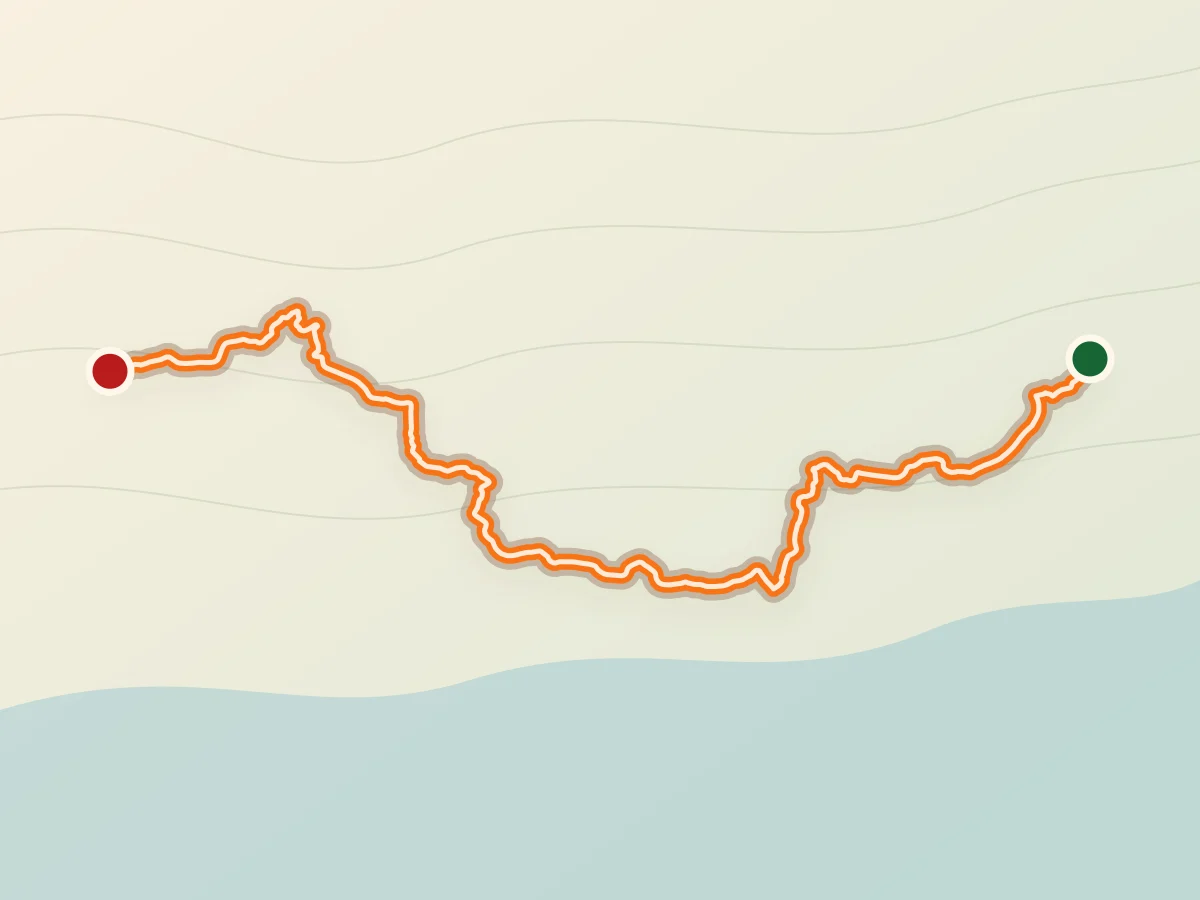
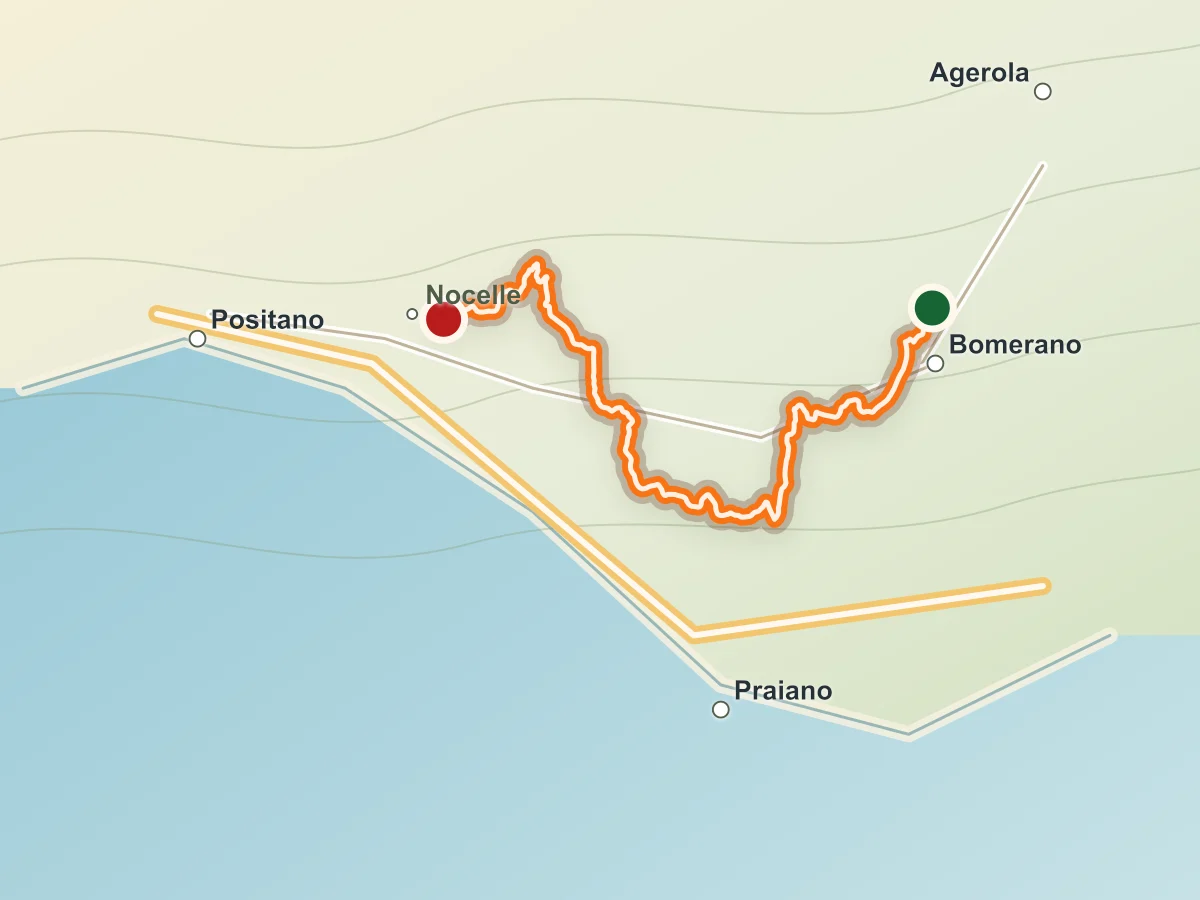
Use real Mapbox route views

Changed region(s): [[0.0, 0.1867, 0.9558, 0.9956], [0.7708, 0.0622, 0.8633, 0.0933], [0.8633, 0.0933, 0.8942, 0.1244]]

diff --git a/public/sw.js b/public/sw.js
@@ -1,1 +1,1 @@
-if(!self.define){let e,a={};const i=(i,s)=>(i=new URL(i+".js",s).href,a[i]||new Promise(a=>{if("document"in self){const e=document.createElement("script");e.src=i,e.onload=a,document.head.appendChild(e)}else e=i,importScripts(i),a()}).then(()=>{let e=a[i];if(!e)throw new Error(`Module ${i} didn’t register its module`);return e}));self.define=(s,r)=>{const c=e||("document"in self?document.currentScript.src:"")||location.href;if(a[c])return;let n={};const d=e=>i(e,c),o={module:{uri:c},exports:n,require:d};a[c]=Promise.all(s.map(e=>o[e]||d(e))).then(e=>(r(...e),n))}}define(["./workbox-f1770938"],function(e){"use strict";importScripts(),self.skipWaiting(),e.clientsClaim(),e.precacheAndRoute([{url:"/_next/static/TdBkE539eTVDdEV3mW2tG/_buildManifest.js",revision:"f5ebc502a50dfa529053d0b6a49a5990"},{url:"/_next/static/TdBkE539eTVDdEV3mW2tG/_ssgManifest.js",revision:"b6652df95db52feb4daf4eca35380933"},{url:"/_next/static/chunks/241-a31dfc1da5424e1f.js",revision:"a31dfc1da5424e1f"},{url:"/_next/static/chunks/306.889c13e0d8b696cc.js",revision:"889c13e0d8b696cc"},{url:"/_next/static/chunks/473-0d2e9323c181d006.js",revision:"0d2e9323c181d006"},{url:"/_next/static/chunks/4bd1b696-67e30520d621c4dd.js",revision:"67e30520d621c4dd"},{url:"/_next/static/chunks/69b09407-21a11b66077f3b5c.js",revision:"21a11b66077f3b5c"},{url:"/_next/static/chunks/703-712178da8e4b8590.js",revision:"712178da8e4b8590"},{url:"/_next/static/chunks/870fdd6f-a6f621f8a46d0cf4.js",revision:"a6f621f8a46d0cf4"},{url:"/_next/static/chunks/928-a8b58837fbf63054.js",revision:"a8b58837fbf63054"},{url:"/_next/static/chunks/app/%5Blocale%5D/layout-a01a015f54c6705e.js",revision:"a01a015f54c6705e"},{url:"/_next/static/chunks/app/%5Blocale%5D/page-2d5798ac906de985.js",revision:"2d5798ac906de985"},{url:"/_next/static/chunks/app/%5Blocale%5D/place/%5Bslug%5D/opengraph-image/route-d3079abb53d535a3.js",revision:"d3079abb53d535a3"},{url:"/_next/static/chunks/app/%5Blocale%5D/place/%5Bslug%5D/page-2fb4bbaeef6815bf.js",revision:"2fb4bbaeef6815bf"},{url:"/_next/static/chunks/app/_global-error/page-d3079abb53d535a3.js",revision:"d3079abb53d535a3"},{url:"/_next/static/chunks/app/_not-found/page-9f5868a1f0915821.js",revision:"9f5868a1f0915821"},{url:"/_next/static/chunks/app/api/subscribe/route-d3079abb53d535a3.js",revision:"d3079abb53d535a3"},{url:"/_next/static/chunks/app/sitemap.xml/route-d3079abb53d535a3.js",revision:"d3079abb53d535a3"},{url:"/_next/static/chunks/c36f3faa.253c1b83377f53a8.js",revision:"253c1b83377f53a8"},{url:"/_next/static/chunks/framework-d7de93249215fb06.js",revision:"d7de93249215fb06"},{url:"/_next/static/chunks/main-6a5a42b1ffd850d3.js",revision:"6a5a42b1ffd850d3"},{url:"/_next/static/chunks/main-app-ea18b1420a4ef144.js",revision:"ea18b1420a4ef144"},{url:"/_next/static/chunks/next/dist/client/components/builtin/app-error-d3079abb53d535a3.js",revision:"d3079abb53d535a3"},{url:"/_next/static/chunks/next/dist/client/components/builtin/forbidden-d3079abb53d535a3.js",revision:"d3079abb53d535a3"},{url:"/_next/static/chunks/next/dist/client/components/builtin/global-error-bd7591621645e423.js",revision:"bd7591621645e423"},{url:"/_next/static/chunks/next/dist/client/components/builtin/layout-d3079abb53d535a3.js",revision:"d3079abb53d535a3"},{url:"/_next/static/chunks/next/dist/client/components/builtin/not-found-d3079abb53d535a3.js",revision:"d3079abb53d535a3"},{url:"/_next/static/chunks/next/dist/client/components/builtin/unauthorized-d3079abb53d535a3.js",revision:"d3079abb53d535a3"},{url:"/_next/static/chunks/polyfills-42372ed130431b0a.js",revision:"846118c33b2c0e922d7b3a7676f81f6f"},{url:"/_next/static/chunks/webpack-da62b1c0435e0e5a.js",revision:"da62b1c0435e0e5a"},{url:"/_next/static/css/53d61c027a9321d3.css",revision:"53d61c027a9321d3"},{url:"/_next/static/css/550b1d6ff5c1b7ec.css",revision:"550b1d6ff5c1b7ec"},{url:"/_next/static/media/027647acf05c7ff8-s.woff2",revision:"3591b7c787c0714852651cebcf68a08f"},{url:"/_next/static/media/069cf31a230d4226-s.p.woff2",revision:"95ae36f714e16b20dc7c5329bb9d74b9"},{url:"/_next/static/media/1f3fe8c6df3d47c1-s.p.woff2",revision:"c355ec2df77a650bba34b592b711cb81"},{url:"/_next/static/media/3e8ab5100a4aa694-s.p.woff2",revision:"639aed42fb4050938f7dca6956047319"},{url:"/_next/static/media/82050c55ac1c8c11-s.p.woff2",revision:"6df1b1045b75cc21cd87feece0d811a6"},{url:"/_next/static/media/9e0a5abcfb090244-s.woff2",revision:"eebcfbf928aa84c742c17810135ca969"},{url:"/_next/static/media/b0e569aadaad2e28-s.woff2",revision:"eedad13c188a4b733d4de94c3410b956"},{url:"/_next/static/media/b78b37b810acce9f-s.woff2",revision:"84178643d3301be33c644418edb5428e"},{url:"/_next/static/media/d49d832fa01eb618-s.woff2",revision:"223003a4d26dc1a3eda1ba4240a6264a"},{url:"/_next/static/media/fe4c52824bfaed3e-s.woff2",revision:"805d9d0a89317c31018ba4093b57970a"},{url:"/apple-touch-icon.png",revision:"ad816da2ae937fc8b03b505590b43a43"},{url:"/brand/booking.svg",revision:"c0a5cb26a18d2e267aab13466b045ed4"},{url:"/brand/logo-color-black.svg",revision:"d2b65e2406ee8a6ed4713853682ccd33"},{url:"/brand/logo-color-white.svg",revision:"079ceb0ad76dc9e8debc272d28a89854"},{url:"/favicon-16x16.png",revision:"e5e4b81d6a451a74515d0bb9f208882e"},{url:"/favicon-32x32.png",revision:"df06b52d3d8f8e5142cc80f496fd10b9"},{url:"/favicon-48x48.png",revision:"9d90043aa676ecc2289eee7b982d9622"},{url:"/favicon.ico",revision:"6f418a6c808e328aeb9db844463bea70"},{url:"/file.svg",revision:"d09f95206c3fa0bb9bd9fefabfd0ea71"},{url:"/globe.svg",revision:"2aaafa6a49b6563925fe440891e32717"},{url:"/gregs-avatar-new.png",revision:"63fc6939883bcaaf17105fc0f3c2044a"},{url:"/guide-webp/A-Paranza.webp",revision:"2ff93ff97363b47278b864d99079b870"},{url:"/guide-webp/Al-Valico-di-Chiunzi.webp",revision:"ced2a43013b3f8225095336f9c92003d"},{url:"/guide-webp/Church-Santa-Maria-del-Bando.webp",revision:"11d941e3aad39417a3613d41e24511f4"},{url:"/guide-webp/DOGI-Market.webp",revision:"be1a6f2915aa95cc8ce9ff311f5746db"},{url:"/guide-webp/Da-Ciccio-Cielo-Mare-Terra.webp",revision:"0dcb77df75ac13bcde18484edf031671"},{url:"/guide-webp/Duomo-di-Sant-Andrea.webp",revision:"e1ea87582a61d62eea975b57901002e3"},{url:"/guide-webp/La-Grande-Mela-Supermarket-Deco.webp",revision:"b3887de85a2d123dc729c1978c2cb10f"},{url:"/guide-webp/La-Tramontina-Amalfi.webp",revision:"a5b221a6581493acb289f1d493e9138e"},{url:"/guide-webp/Le-Arcate.webp",revision:"926fd88bc9e9892a35f6a14fcaa74224"},{url:"/guide-webp/Lido-degli-Artisti.webp",revision:"99cdd05247218fd159694dfc95993a94"},{url:"/guide-webp/Lo-Smeraldino.webp",revision:"0d11c85313ee1e4d82d8b4a966a7763a"},{url:"/guide-webp/Mimi-Coco-di-Tutto-Un-Po.webp",revision:"c029d1b449b26d3e05498df6d0a73614"},{url:"/guide-webp/Minori-and-Sal-De-Riso.webp",revision:"20afd74fa26615075f0fad0ad39447e4"},{url:"/guide-webp/Path-of-the-Gods.webp",revision:"24971b3531000a54fdf1579e76f15199"},{url:"/guide-webp/Ravello-Infinity-Terrace.webp",revision:"19246eae29245cb3a3d6748671238991"},{url:"/guide-webp/The-Lemon Path.webp",revision:"782d8fa34915801f7c614a226d99d3b0"},{url:"/guide-webp/apicella-bakery.webp",revision:"922191eac9c2b221c479b7c7f83feb36"},{url:"/guide-webp/castiglione.webp",revision:"3b20f8ee1ccb89e5cd13d392fb8c6f65"},{url:"/guide-webp/elevator-amalfi.webp",revision:"c964eae7ac1b70ba1a3b94bd907d5961"},{url:"/guide-webp/la-rua.webp",revision:"e8c383ada37769590eabefb2ac7da200"},{url:"/guide-webp/le-palme.webp",revision:"0188ee53d72ecc633fa5f6e665097385"},{url:"/guide-webp/marina-di-praia.webp",revision:"b788341bf8fe05016cc6f2de8f8bfa75"},{url:"/guide-webp/pizza-express-amalfi.webp",revision:"2e1cb05a8661e941dd649447a3c8971f"},{url:"/guide-webp/square_in_atrani.webp",revision:"aaf656603ad8530ff0285e590e09314e"},{url:"/guide-webp/torre-dello-ziro.webp",revision:"c1fecf3840999d0c5e22d1003bc510b0"},{url:"/guide-webp/waterfall-in-amalfi-new-from-inside.webp",revision:"47cb254e5dacf372c5a9434a5a2141c5"},{url:"/guide-webp/waterfall_in_atrani.webp",revision:"965626e6f92a018fc5442aadaaee6302"},{url:"/guide/A-Paranza.jpeg",revision:"724f6dd05a045a2c132f35ad8f951efd"},{url:"/guide/Al-Valico-di-Chiunzi.jpg",revision:"f12e39b246c9545eb71cc689fa4f2050"},{url:"/guide/Church-Santa-Maria-del-Bando.jpg",revision:"b40af7ef51ab9dbfa58e3eee9cd7b37a"},{url:"/guide/Da-Ciccio-Cielo-Mare-Terra.jpg",revision:"d069473c90fbf5e895d18101fe5a4a9a"},{url:"/guide/Duomo-di-Sant-Andrea.jpg",revision:"5bc3eb6b293e7ba0c497f1188aa0c5ff"},{url:"/guide/Le-Arcate.jpg",revision:"9cd3e6b4797d73286cfa5fdeec8e21ff"},{url:"/guide/Lido-degli-Artisti.jpg",revision:"1ff0df6a9cea14706d6d861c810fcf91"},{url:"/guide/Lo-Smeraldino.jpg",revision:"48a522ff3d3df20eceab289950d6a9e6"},{url:"/guide/Minori-and-Sal-De-Riso.jpg",revision:"f471baaf01b4d1adfbac14cd2f014215"},{url:"/guide/Path-of-the-Gods.jpeg",revision:"8601adea323f067d1552f0b1396a9574"},{url:"/guide/Ravello-Infinity-Terrace.jpg",revision:"d1c1b3e527476907a596b801a6605b64"},{url:"/guide/The-Lemon Path.jpeg",revision:"6e335cd866fe856f13e83ddc74ded035"},{url:"/guide/apicella-bakery.jpg",revision:"b1554c806a5832a4d965e451135a72f7"},{url:"/guide/castiglione.jpg",revision:"3ec0eef020597e240d540b97eb86e805"},{url:"/guide/elevator-amalfi.jpeg",revision:"0b431eae64994dcc46ca896259dddc64"},{url:"/guide/la-rua.jpg",revision:"e5c750c111031741b0f29cb485e0ecfd"},{url:"/guide/le-palme.jpg",revision:"7067c7da5f2233db89dec5731efaf700"},{url:"/guide/marina-di-praia.jpg",revision:"d606177c87bc45c1a30c6716478d98ba"},{url:"/guide/pizza-express-amalfi.jpg",revision:"8bc97a5e6572006e0083867c9b5cf086"},{url:"/guide/square_in_atrani.jpg",revision:"04aa53e531d2365623dde49d6f116a9b"},{url:"/guide/torre-dello-ziro.jpg",revision:"eb1ff6ab79a98e9f1297b74f5ff43bdc"},{url:"/guide/waterfall-in-amalfi-new-from-inside.jpg",revision:"019fd49854522459c3f72c90ddd3f055"},{url:"/guide/waterfall_in_atrani.jpg",revision:"cc1692e5c39be0d64b33b01bed826a84"},{url:"/images/flag-color.webp",revision:"26023fb26ac9077d9f0c9eefa2647fec"},{url:"/images/flag-shadow-orange-2.webp",revision:"9be4cc1e360649ed1f776072afe89f92"},{url:"/images/flag-shadow-orange.webp",revision:"9fb3bafb6661127ce1d3c8045d91ddfa"},{url:"/images/flag-shadow.webp",revision:"e2ff227a2d20f6005e92f0e2989b82a2"},{url:"/images/gregs-image.jpg",revision:"874a05c94adcaaa657a4bc0289fbaf7f"},{url:"/images/gregs-masked.png",revision:"1579c8c6242a1c963804ca095ffdf30f"},{url:"/images/guide-logo.svg",revision:"cfc8e8eaffcc3768964fd0cc8f10fa2a"},{url:"/images/hero.webp",revision:"377ed67d10d2f93daf5d77b941bc9fab"},{url:"/images/icon-192x192.png",revision:"7cade30e4b2aae8c568cfbf99d660ac1"},{url:"/images/icon-512x512.png",revision:"5e0f4139342714c5af1afc8dfd94ae73"},{url:"/images/icon.png",revision:"8c3c59a1ca21b482330b2f559b7ebea9"},{url:"/images/site-preview.webp",revision:"f066c1a85dd74add4f5f045e08f81d01"},{url:"/images/social.png",revision:"e14817b61f00b795143a58457a24d84c"},{url:"/img/amalfi-day-logo-with-circle.svg",revision:"524d0205598b440c89b995077c7de07c"},{url:"/manifest.json",revision:"c0ed246929a395396f77f41a4398e1af"},{url:"/next.svg",revision:"8e061864f388b47f33a1c3780831193e"},{url:"/pre-footer/2-food-in-amalfi-good.webp",revision:"cf1ccd0e374ab14bcbefb10c4bf63960"},{url:"/pre-footer/boat-tours-in-amalfi.webp",revision:"3838045d58364dc72951e174ecc29c8f"},{url:"/pre-footer/girl-on-moto-in-amalfi-small.webp",revision:"8a1ea69927fb4771a13e6c97d4760545"},{url:"/robots.txt",revision:"00bd182ca9f96ea01595222d9baf5cb2"},{url:"/routes/path-of-the-gods.geojson",revision:"777d576e9cee56c715325f03bbe45ad8"},{url:"/routes/path-of-the-gods.gpx",revision:"9f68413b63f9ee1f833fdbb65211cff6"},{url:"/routes/path-of-the-gods.kml",revision:"e5cf1c7aa99a86f6a8e85f7a6022ac74"},{url:"/routes/path-of-the-gods.kmz",revision:"4cd9bfe9ba1a936ac761a7a50916d411"},{url:"/routes/path-of-the-gods.webp",revision:"39ac6e906a2addfd95756301a941062e"},{url:"/routes/the-lemon-path.geojson",revision:"a783f6b0bdadcfa88ef8d00c1801e1b4"},{url:"/routes/the-lemon-path.gpx",revision:"79f1839081eb1bac2c29277ca1fec710"},{url:"/routes/the-lemon-path.kml",revision:"f38940b39035a47997d1473ded6c4b22"},{url:"/routes/the-lemon-path.kmz",revision:"45fef91d50cc944d5d1102110618a5a2"},{url:"/routes/the-lemon-path.webp",revision:"2a4d3783a2f54f7446751cf0ff785ce9"},{url:"/routes/torre-dello-ziro.geojson",revision:"5efdf55706b88e1d372c061b6f30acf5"},{url:"/routes/torre-dello-ziro.gpx",revision:"2a8ec868eee90032d1d7fa4c6c695d64"},{url:"/routes/torre-dello-ziro.kml",revision:"4a76fe2e745edb6d1dfa9a160e304072"},{url:"/routes/torre-dello-ziro.kmz",revision:"fe769b3f76ac238847c03fe3c69a8913"},{url:"/routes/torre-dello-ziro.webp",revision:"ffde49b1eb2e228591c0ca87f70112a6"},{url:"/routes/valle-delle-ferriere.geojson",revision:"70f384de6387ccfd8200e418e98a1c9b"},{url:"/routes/valle-delle-ferriere.gpx",revision:"170218ea8fa6a564b93f4032dc9fbac7"},{url:"/routes/valle-delle-ferriere.kml",revision:"b3756c34a50e01e0ec191786c4cd8300"},{url:"/routes/valle-delle-ferriere.kmz",revision:"40820abf53530ca37d8100404f0245fb"},{url:"/routes/valle-delle-ferriere.webp",revision:"4666b1093ce7b379c7ab88683889eb69"},{url:"/translations/ui.de.json",revision:"81fe984cb01d8a2ecfd569fd04191ec2"},{url:"/translations/ui.en.json",revision:"9cc82c684e45456eadfd44a711073ec1"},{url:"/translations/ui.es.json",revision:"eb54ddcf2dd58c85f53fd17ec222fa62"},{url:"/translations/ui.fr.json",revision:"59b24f105bbbce7000d87dd911d46f25"},{url:"/translations/ui.it.json",revision:"22de52a2abeb0119a43ebb5ad8131ddc"},{url:"/translations/ui.ru.json",revision:"4a4ff10e0d16f6519387a95d8b5da6ab"},{url:"/vercel.svg",revision:"c0af2f507b369b085b35ef4bbe3bcf1e"},{url:"/window.svg",revision:"a2760511c65806022ad20adf74370ff3"}],{ignoreURLParametersMatching:[/^utm_/,/^fbclid$/]}),e.cleanupOutdatedCaches(),e.registerRoute("/",new e.NetworkFirst({cacheName:"start-url",plugins:[{cacheWillUpdate:async({response:e})=>e&&"opaqueredirect"===e.type?new Response(e.body,{status:200,statusText:"OK",headers:e.headers}):e}]}),"GET"),e.registerRoute(/^https:\/\/fonts\.(?:gstatic)\.com\/.*/i,new e.CacheFirst({cacheName:"google-fonts-webfonts",plugins:[new e.ExpirationPlugin({maxEntries:4,maxAgeSeconds:31536e3})]}),"GET"),e.registerRoute(/^https:\/\/fonts\.(?:googleapis)\.com\/.*/i,new e.StaleWhileRevalidate({cacheName:"google-fonts-stylesheets",plugins:[new e.ExpirationPlugin({maxEntries:4,maxAgeSeconds:604800})]}),"GET"),e.registerRoute(/\.(?:eot|otf|ttc|ttf|woff|woff2|font.css)$/i,new e.StaleWhileRevalidate({cacheName:"static-font-assets",plugins:[new e.ExpirationPlugin({maxEntries:4,maxAgeSeconds:604800})]}),"GET"),e.registerRoute(/\.(?:jpg|jpeg|gif|png|svg|ico|webp)$/i,new e.StaleWhileRevalidate({cacheName:"static-image-assets",plugins:[new e.ExpirationPlugin({maxEntries:64,maxAgeSeconds:2592e3})]}),"GET"),e.registerRoute(/\/_next\/static.+\.js$/i,new e.CacheFirst({cacheName:"next-static-js-assets",plugins:[new e.ExpirationPlugin({maxEntries:64,maxAgeSeconds:86400})]}),"GET"),e.registerRoute(/\/_next\/image\?url=.+$/i,new e.StaleWhileRevalidate({cacheName:"next-image",plugins:[new e.ExpirationPlugin({maxEntries:64,maxAgeSeconds:86400})]}),"GET"),e.registerRoute(/\.(?:mp3|wav|ogg)$/i,new e.CacheFirst({cacheName:"static-audio-assets",plugins:[new e.RangeRequestsPlugin,new e.ExpirationPlugin({maxEntries:32,maxAgeSeconds:86400})]}),"GET"),e.registerRoute(/\.(?:mp4|webm)$/i,new e.CacheFirst({cacheName:"static-video-assets",plugins:[new e.RangeRequestsPlugin,new e.ExpirationPlugin({maxEntries:32,maxAgeSeconds:86400})]}),"GET"),e.registerRoute(/\.(?:js)$/i,new e.StaleWhileRevalidate({cacheName:"static-js-assets",plugins:[new e.ExpirationPlugin({maxEntries:48,maxAgeSeconds:86400})]}),"GET"),e.registerRoute(/\.(?:css|less)$/i,new e.StaleWhileRevalidate({cacheName:"static-style-assets",plugins:[new e.ExpirationPlugin({maxEntries:32,maxAgeSeconds:86400})]}),"GET"),e.registerRoute(/\/_next\/data\/.+\/.+\.json$/i,new e.StaleWhileRevalidate({cacheName:"next-data",plugins:[new e.ExpirationPlugin({maxEntries:32,maxAgeSeconds:86400})]}),"GET"),e.registerRoute(/\.(?:json|xml|csv)$/i,new e.NetworkFirst({cacheName:"static-data-assets",plugins:[new e.ExpirationPlugin({maxEntries:32,maxAgeSeconds:86400})]}),"GET"),e.registerRoute(({sameOrigin:e,url:{pathname:a}})=>!(!e||a.startsWith("/api/auth/callback")||!a.startsWith("/api/")),new e.NetworkFirst({cacheName:"apis",networkTimeoutSeconds:10,plugins:[new e.ExpirationPlugin({maxEntries:16,maxAgeSeconds:86400})]}),"GET"),e.registerRoute(({request:e,url:{pathname:a},sameOrigin:i})=>"1"===e.headers.get("RSC")&&"1"===e.headers.get("Next-Router-Prefetch")&&i&&!a.startsWith("/api/"),new e.NetworkFirst({cacheName:"pages-rsc-prefetch",plugins:[new e.ExpirationPlugin({maxEntries:32,maxAgeSeconds:86400})]}),"GET"),e.registerRoute(({request:e,url:{pathname:a},sameOrigin:i})=>"1"===e.headers.get("RSC")&&i&&!a.startsWith("/api/"),new e.NetworkFirst({cacheName:"pages-rsc",plugins:[new e.ExpirationPlugin({maxEntries:32,maxAgeSeconds:86400})]}),"GET"),e.registerRoute(({url:{pathname:e},sameOrigin:a})=>a&&!e.startsWith("/api/"),new e.NetworkFirst({cacheName:"pages",plugins:[new e.ExpirationPlugin({maxEntries:32,maxAgeSeconds:86400})]}),"GET"),e.registerRoute(({sameOrigin:e})=>!e,new e.NetworkFirst({cacheName:"cross-origin",networkTimeoutSeconds:10,plugins:[new e.ExpirationPlugin({maxEntries:32,maxAgeSeconds:3600})]}),"GET")});
+if(!self.define){let e,a={};const i=(i,s)=>(i=new URL(i+".js",s).href,a[i]||new Promise(a=>{if("document"in self){const e=document.createElement("script");e.src=i,e.onload=a,document.head.appendChild(e)}else e=i,importScripts(i),a()}).then(()=>{let e=a[i];if(!e)throw new Error(`Module ${i} didn’t register its module`);return e}));self.define=(s,r)=>{const c=e||("document"in self?document.currentScript.src:"")||location.href;if(a[c])return;let n={};const d=e=>i(e,c),o={module:{uri:c},exports:n,require:d};a[c]=Promise.all(s.map(e=>o[e]||d(e))).then(e=>(r(...e),n))}}define(["./workbox-f1770938"],function(e){"use strict";importScripts(),self.skipWaiting(),e.clientsClaim(),e.precacheAndRoute([{url:"/_next/static/_nUcSlmNkooTW2WwUkBOe/_buildManifest.js",revision:"f5ebc502a50dfa529053d0b6a49a5990"},{url:"/_next/static/_nUcSlmNkooTW2WwUkBOe/_ssgManifest.js",revision:"b6652df95db52feb4daf4eca35380933"},{url:"/_next/static/chunks/241-a31dfc1da5424e1f.js",revision:"a31dfc1da5424e1f"},{url:"/_next/static/chunks/306.8b2e5f0edff3b50e.js",revision:"8b2e5f0edff3b50e"},{url:"/_next/static/chunks/473-0d2e9323c181d006.js",revision:"0d2e9323c181d006"},{url:"/_next/static/chunks/4bd1b696-67e30520d621c4dd.js",revision:"67e30520d621c4dd"},{url:"/_next/static/chunks/69b09407-21a11b66077f3b5c.js",revision:"21a11b66077f3b5c"},{url:"/_next/static/chunks/703-c16acbeaa367a572.js",revision:"c16acbeaa367a572"},{url:"/_next/static/chunks/870fdd6f-ed1c586ea6b91fc2.js",revision:"ed1c586ea6b91fc2"},{url:"/_next/static/chunks/928-a8b58837fbf63054.js",revision:"a8b58837fbf63054"},{url:"/_next/static/chunks/app/%5Blocale%5D/layout-a01a015f54c6705e.js",revision:"a01a015f54c6705e"},{url:"/_next/static/chunks/app/%5Blocale%5D/page-2d5798ac906de985.js",revision:"2d5798ac906de985"},{url:"/_next/static/chunks/app/%5Blocale%5D/place/%5Bslug%5D/opengraph-image/route-d3079abb53d535a3.js",revision:"d3079abb53d535a3"},{url:"/_next/static/chunks/app/%5Blocale%5D/place/%5Bslug%5D/page-2fb4bbaeef6815bf.js",revision:"2fb4bbaeef6815bf"},{url:"/_next/static/chunks/app/_global-error/page-d3079abb53d535a3.js",revision:"d3079abb53d535a3"},{url:"/_next/static/chunks/app/_not-found/page-9f5868a1f0915821.js",revision:"9f5868a1f0915821"},{url:"/_next/static/chunks/app/api/subscribe/route-d3079abb53d535a3.js",revision:"d3079abb53d535a3"},{url:"/_next/static/chunks/app/sitemap.xml/route-d3079abb53d535a3.js",revision:"d3079abb53d535a3"},{url:"/_next/static/chunks/c36f3faa.253c1b83377f53a8.js",revision:"253c1b83377f53a8"},{url:"/_next/static/chunks/framework-d7de93249215fb06.js",revision:"d7de93249215fb06"},{url:"/_next/static/chunks/main-6a5a42b1ffd850d3.js",revision:"6a5a42b1ffd850d3"},{url:"/_next/static/chunks/main-app-ea18b1420a4ef144.js",revision:"ea18b1420a4ef144"},{url:"/_next/static/chunks/next/dist/client/components/builtin/app-error-d3079abb53d535a3.js",revision:"d3079abb53d535a3"},{url:"/_next/static/chunks/next/dist/client/components/builtin/forbidden-d3079abb53d535a3.js",revision:"d3079abb53d535a3"},{url:"/_next/static/chunks/next/dist/client/components/builtin/global-error-bd7591621645e423.js",revision:"bd7591621645e423"},{url:"/_next/static/chunks/next/dist/client/components/builtin/layout-d3079abb53d535a3.js",revision:"d3079abb53d535a3"},{url:"/_next/static/chunks/next/dist/client/components/builtin/not-found-d3079abb53d535a3.js",revision:"d3079abb53d535a3"},{url:"/_next/static/chunks/next/dist/client/components/builtin/unauthorized-d3079abb53d535a3.js",revision:"d3079abb53d535a3"},{url:"/_next/static/chunks/polyfills-42372ed130431b0a.js",revision:"846118c33b2c0e922d7b3a7676f81f6f"},{url:"/_next/static/chunks/webpack-3fecb51a790cc2f4.js",revision:"3fecb51a790cc2f4"},{url:"/_next/static/css/550b1d6ff5c1b7ec.css",revision:"550b1d6ff5c1b7ec"},{url:"/_next/static/css/b5e8298b690c68d4.css",revision:"b5e8298b690c68d4"},{url:"/_next/static/media/027647acf05c7ff8-s.woff2",revision:"3591b7c787c0714852651cebcf68a08f"},{url:"/_next/static/media/069cf31a230d4226-s.p.woff2",revision:"95ae36f714e16b20dc7c5329bb9d74b9"},{url:"/_next/static/media/1f3fe8c6df3d47c1-s.p.woff2",revision:"c355ec2df77a650bba34b592b711cb81"},{url:"/_next/static/media/3e8ab5100a4aa694-s.p.woff2",revision:"639aed42fb4050938f7dca6956047319"},{url:"/_next/static/media/82050c55ac1c8c11-s.p.woff2",revision:"6df1b1045b75cc21cd87feece0d811a6"},{url:"/_next/static/media/9e0a5abcfb090244-s.woff2",revision:"eebcfbf928aa84c742c17810135ca969"},{url:"/_next/static/media/b0e569aadaad2e28-s.woff2",revision:"eedad13c188a4b733d4de94c3410b956"},{url:"/_next/static/media/b78b37b810acce9f-s.woff2",revision:"84178643d3301be33c644418edb5428e"},{url:"/_next/static/media/d49d832fa01eb618-s.woff2",revision:"223003a4d26dc1a3eda1ba4240a6264a"},{url:"/_next/static/media/fe4c52824bfaed3e-s.woff2",revision:"805d9d0a89317c31018ba4093b57970a"},{url:"/apple-touch-icon.png",revision:"ad816da2ae937fc8b03b505590b43a43"},{url:"/brand/booking.svg",revision:"c0a5cb26a18d2e267aab13466b045ed4"},{url:"/brand/logo-color-black.svg",revision:"d2b65e2406ee8a6ed4713853682ccd33"},{url:"/brand/logo-color-white.svg",revision:"079ceb0ad76dc9e8debc272d28a89854"},{url:"/favicon-16x16.png",revision:"e5e4b81d6a451a74515d0bb9f208882e"},{url:"/favicon-32x32.png",revision:"df06b52d3d8f8e5142cc80f496fd10b9"},{url:"/favicon-48x48.png",revision:"9d90043aa676ecc2289eee7b982d9622"},{url:"/favicon.ico",revision:"6f418a6c808e328aeb9db844463bea70"},{url:"/file.svg",revision:"d09f95206c3fa0bb9bd9fefabfd0ea71"},{url:"/globe.svg",revision:"2aaafa6a49b6563925fe440891e32717"},{url:"/gregs-avatar-new.png",revision:"63fc6939883bcaaf17105fc0f3c2044a"},{url:"/guide-webp/A-Paranza.webp",revision:"2ff93ff97363b47278b864d99079b870"},{url:"/guide-webp/Al-Valico-di-Chiunzi.webp",revision:"ced2a43013b3f8225095336f9c92003d"},{url:"/guide-webp/Church-Santa-Maria-del-Bando.webp",revision:"11d941e3aad39417a3613d41e24511f4"},{url:"/guide-webp/DOGI-Market.webp",revision:"be1a6f2915aa95cc8ce9ff311f5746db"},{url:"/guide-webp/Da-Ciccio-Cielo-Mare-Terra.webp",revision:"0dcb77df75ac13bcde18484edf031671"},{url:"/guide-webp/Duomo-di-Sant-Andrea.webp",revision:"e1ea87582a61d62eea975b57901002e3"},{url:"/guide-webp/La-Grande-Mela-Supermarket-Deco.webp",revision:"b3887de85a2d123dc729c1978c2cb10f"},{url:"/guide-webp/La-Tramontina-Amalfi.webp",revision:"a5b221a6581493acb289f1d493e9138e"},{url:"/guide-webp/Le-Arcate.webp",revision:"926fd88bc9e9892a35f6a14fcaa74224"},{url:"/guide-webp/Lido-degli-Artisti.webp",revision:"99cdd05247218fd159694dfc95993a94"},{url:"/guide-webp/Lo-Smeraldino.webp",revision:"0d11c85313ee1e4d82d8b4a966a7763a"},{url:"/guide-webp/Mimi-Coco-di-Tutto-Un-Po.webp",revision:"c029d1b449b26d3e05498df6d0a73614"},{url:"/guide-webp/Minori-and-Sal-De-Riso.webp",revision:"20afd74fa26615075f0fad0ad39447e4"},{url:"/guide-webp/Path-of-the-Gods.webp",revision:"24971b3531000a54fdf1579e76f15199"},{url:"/guide-webp/Ravello-Infinity-Terrace.webp",revision:"19246eae29245cb3a3d6748671238991"},{url:"/guide-webp/The-Lemon Path.webp",revision:"782d8fa34915801f7c614a226d99d3b0"},{url:"/guide-webp/apicella-bakery.webp",revision:"922191eac9c2b221c479b7c7f83feb36"},{url:"/guide-webp/castiglione.webp",revision:"3b20f8ee1ccb89e5cd13d392fb8c6f65"},{url:"/guide-webp/elevator-amalfi.webp",revision:"c964eae7ac1b70ba1a3b94bd907d5961"},{url:"/guide-webp/la-rua.webp",revision:"e8c383ada37769590eabefb2ac7da200"},{url:"/guide-webp/le-palme.webp",revision:"0188ee53d72ecc633fa5f6e665097385"},{url:"/guide-webp/marina-di-praia.webp",revision:"b788341bf8fe05016cc6f2de8f8bfa75"},{url:"/guide-webp/pizza-express-amalfi.webp",revision:"2e1cb05a8661e941dd649447a3c8971f"},{url:"/guide-webp/square_in_atrani.webp",revision:"aaf656603ad8530ff0285e590e09314e"},{url:"/guide-webp/torre-dello-ziro.webp",revision:"c1fecf3840999d0c5e22d1003bc510b0"},{url:"/guide-webp/waterfall-in-amalfi-new-from-inside.webp",revision:"47cb254e5dacf372c5a9434a5a2141c5"},{url:"/guide-webp/waterfall_in_atrani.webp",revision:"965626e6f92a018fc5442aadaaee6302"},{url:"/guide/A-Paranza.jpeg",revision:"724f6dd05a045a2c132f35ad8f951efd"},{url:"/guide/Al-Valico-di-Chiunzi.jpg",revision:"f12e39b246c9545eb71cc689fa4f2050"},{url:"/guide/Church-Santa-Maria-del-Bando.jpg",revision:"b40af7ef51ab9dbfa58e3eee9cd7b37a"},{url:"/guide/Da-Ciccio-Cielo-Mare-Terra.jpg",revision:"d069473c90fbf5e895d18101fe5a4a9a"},{url:"/guide/Duomo-di-Sant-Andrea.jpg",revision:"5bc3eb6b293e7ba0c497f1188aa0c5ff"},{url:"/guide/Le-Arcate.jpg",revision:"9cd3e6b4797d73286cfa5fdeec8e21ff"},{url:"/guide/Lido-degli-Artisti.jpg",revision:"1ff0df6a9cea14706d6d861c810fcf91"},{url:"/guide/Lo-Smeraldino.jpg",revision:"48a522ff3d3df20eceab289950d6a9e6"},{url:"/guide/Minori-and-Sal-De-Riso.jpg",revision:"f471baaf01b4d1adfbac14cd2f014215"},{url:"/guide/Path-of-the-Gods.jpeg",revision:"8601adea323f067d1552f0b1396a9574"},{url:"/guide/Ravello-Infinity-Terrace.jpg",revision:"d1c1b3e527476907a596b801a6605b64"},{url:"/guide/The-Lemon Path.jpeg",revision:"6e335cd866fe856f13e83ddc74ded035"},{url:"/guide/apicella-bakery.jpg",revision:"b1554c806a5832a4d965e451135a72f7"},{url:"/guide/castiglione.jpg",revision:"3ec0eef020597e240d540b97eb86e805"},{url:"/guide/elevator-amalfi.jpeg",revision:"0b431eae64994dcc46ca896259dddc64"},{url:"/guide/la-rua.jpg",revision:"e5c750c111031741b0f29cb485e0ecfd"},{url:"/guide/le-palme.jpg",revision:"7067c7da5f2233db89dec5731efaf700"},{url:"/guide/marina-di-praia.jpg",revision:"d606177c87bc45c1a30c6716478d98ba"},{url:"/guide/pizza-express-amalfi.jpg",revision:"8bc97a5e6572006e0083867c9b5cf086"},{url:"/guide/square_in_atrani.jpg",revision:"04aa53e531d2365623dde49d6f116a9b"},{url:"/guide/torre-dello-ziro.jpg",revision:"eb1ff6ab79a98e9f1297b74f5ff43bdc"},{url:"/guide/waterfall-in-amalfi-new-from-inside.jpg",revision:"019fd49854522459c3f72c90ddd3f055"},{url:"/guide/waterfall_in_atrani.jpg",revision:"cc1692e5c39be0d64b33b01bed826a84"},{url:"/images/flag-color.webp",revision:"26023fb26ac9077d9f0c9eefa2647fec"},{url:"/images/flag-shadow-orange-2.webp",revision:"9be4cc1e360649ed1f776072afe89f92"},{url:"/images/flag-shadow-orange.webp",revision:"9fb3bafb6661127ce1d3c8045d91ddfa"},{url:"/images/flag-shadow.webp",revision:"e2ff227a2d20f6005e92f0e2989b82a2"},{url:"/images/gregs-image.jpg",revision:"874a05c94adcaaa657a4bc0289fbaf7f"},{url:"/images/gregs-masked.png",revision:"1579c8c6242a1c963804ca095ffdf30f"},{url:"/images/guide-logo.svg",revision:"cfc8e8eaffcc3768964fd0cc8f10fa2a"},{url:"/images/hero.webp",revision:"377ed67d10d2f93daf5d77b941bc9fab"},{url:"/images/icon-192x192.png",revision:"7cade30e4b2aae8c568cfbf99d660ac1"},{url:"/images/icon-512x512.png",revision:"5e0f4139342714c5af1afc8dfd94ae73"},{url:"/images/icon.png",revision:"8c3c59a1ca21b482330b2f559b7ebea9"},{url:"/images/site-preview.webp",revision:"f066c1a85dd74add4f5f045e08f81d01"},{url:"/images/social.png",revision:"e14817b61f00b795143a58457a24d84c"},{url:"/img/amalfi-day-logo-with-circle.svg",revision:"524d0205598b440c89b995077c7de07c"},{url:"/manifest.json",revision:"c0ed246929a395396f77f41a4398e1af"},{url:"/next.svg",revision:"8e061864f388b47f33a1c3780831193e"},{url:"/pre-footer/2-food-in-amalfi-good.webp",revision:"cf1ccd0e374ab14bcbefb10c4bf63960"},{url:"/pre-footer/boat-tours-in-amalfi.webp",revision:"3838045d58364dc72951e174ecc29c8f"},{url:"/pre-footer/girl-on-moto-in-amalfi-small.webp",revision:"8a1ea69927fb4771a13e6c97d4760545"},{url:"/robots.txt",revision:"00bd182ca9f96ea01595222d9baf5cb2"},{url:"/routes/path-of-the-gods.geojson",revision:"777d576e9cee56c715325f03bbe45ad8"},{url:"/routes/path-of-the-gods.gpx",revision:"9f68413b63f9ee1f833fdbb65211cff6"},{url:"/routes/path-of-the-gods.kml",revision:"e5cf1c7aa99a86f6a8e85f7a6022ac74"},{url:"/routes/path-of-the-gods.kmz",revision:"4cd9bfe9ba1a936ac761a7a50916d411"},{url:"/routes/path-of-the-gods.webp",revision:"0a79f22efb3499078f155d3a5a70f409"},{url:"/routes/the-lemon-path.geojson",revision:"a783f6b0bdadcfa88ef8d00c1801e1b4"},{url:"/routes/the-lemon-path.gpx",revision:"79f1839081eb1bac2c29277ca1fec710"},{url:"/routes/the-lemon-path.kml",revision:"f38940b39035a47997d1473ded6c4b22"},{url:"/routes/the-lemon-path.kmz",revision:"45fef91d50cc944d5d1102110618a5a2"},{url:"/routes/the-lemon-path.webp",revision:"61ce41ec430002884d0eb4e8f86ee032"},{url:"/routes/torre-dello-ziro.geojson",revision:"5efdf55706b88e1d372c061b6f30acf5"},{url:"/routes/torre-dello-ziro.gpx",revision:"2a8ec868eee90032d1d7fa4c6c695d64"},{url:"/routes/torre-dello-ziro.kml",revision:"4a76fe2e745edb6d1dfa9a160e304072"},{url:"/routes/torre-dello-ziro.kmz",revision:"fe769b3f76ac238847c03fe3c69a8913"},{url:"/routes/torre-dello-ziro.webp",revision:"715c6d47636a27bdfdf1e226a452e0c9"},{url:"/routes/valle-delle-ferriere.geojson",revision:"70f384de6387ccfd8200e418e98a1c9b"},{url:"/routes/valle-delle-ferriere.gpx",revision:"170218ea8fa6a564b93f4032dc9fbac7"},{url:"/routes/valle-delle-ferriere.kml",revision:"b3756c34a50e01e0ec191786c4cd8300"},{url:"/routes/valle-delle-ferriere.kmz",revision:"40820abf53530ca37d8100404f0245fb"},{url:"/routes/valle-delle-ferriere.webp",revision:"43e091ca2bdf72b079898de9ec5cf3c1"},{url:"/translations/ui.de.json",revision:"0d78508df8aad0691c426fada7b275fc"},{url:"/translations/ui.en.json",revision:"cfed823af95e08d9a11ebc51f274fede"},{url:"/translations/ui.es.json",revision:"9113f54d8c1894f2ff3df3e1f8ff3d82"},{url:"/translations/ui.fr.json",revision:"c6bc668a776eaab135161bed8340ad2f"},{url:"/translations/ui.it.json",revision:"95121167b21d272e29060982a165746c"},{url:"/translations/ui.ru.json",revision:"a1222981d0b214161b4d68bd8e38d886"},{url:"/vercel.svg",revision:"c0af2f507b369b085b35ef4bbe3bcf1e"},{url:"/window.svg",revision:"a2760511c65806022ad20adf74370ff3"}],{ignoreURLParametersMatching:[/^utm_/,/^fbclid$/]}),e.cleanupOutdatedCaches(),e.registerRoute("/",new e.NetworkFirst({cacheName:"start-url",plugins:[{cacheWillUpdate:async({response:e})=>e&&"opaqueredirect"===e.type?new Response(e.body,{status:200,statusText:"OK",headers:e.headers}):e}]}),"GET"),e.registerRoute(/^https:\/\/fonts\.(?:gstatic)\.com\/.*/i,new e.CacheFirst({cacheName:"google-fonts-webfonts",plugins:[new e.ExpirationPlugin({maxEntries:4,maxAgeSeconds:31536e3})]}),"GET"),e.registerRoute(/^https:\/\/fonts\.(?:googleapis)\.com\/.*/i,new e.StaleWhileRevalidate({cacheName:"google-fonts-stylesheets",plugins:[new e.ExpirationPlugin({maxEntries:4,maxAgeSeconds:604800})]}),"GET"),e.registerRoute(/\.(?:eot|otf|ttc|ttf|woff|woff2|font.css)$/i,new e.StaleWhileRevalidate({cacheName:"static-font-assets",plugins:[new e.ExpirationPlugin({maxEntries:4,maxAgeSeconds:604800})]}),"GET"),e.registerRoute(/\.(?:jpg|jpeg|gif|png|svg|ico|webp)$/i,new e.StaleWhileRevalidate({cacheName:"static-image-assets",plugins:[new e.ExpirationPlugin({maxEntries:64,maxAgeSeconds:2592e3})]}),"GET"),e.registerRoute(/\/_next\/static.+\.js$/i,new e.CacheFirst({cacheName:"next-static-js-assets",plugins:[new e.ExpirationPlugin({maxEntries:64,maxAgeSeconds:86400})]}),"GET"),e.registerRoute(/\/_next\/image\?url=.+$/i,new e.StaleWhileRevalidate({cacheName:"next-image",plugins:[new e.ExpirationPlugin({maxEntries:64,maxAgeSeconds:86400})]}),"GET"),e.registerRoute(/\.(?:mp3|wav|ogg)$/i,new e.CacheFirst({cacheName:"static-audio-assets",plugins:[new e.RangeRequestsPlugin,new e.ExpirationPlugin({maxEntries:32,maxAgeSeconds:86400})]}),"GET"),e.registerRoute(/\.(?:mp4|webm)$/i,new e.CacheFirst({cacheName:"static-video-assets",plugins:[new e.RangeRequestsPlugin,new e.ExpirationPlugin({maxEntries:32,maxAgeSeconds:86400})]}),"GET"),e.registerRoute(/\.(?:js)$/i,new e.StaleWhileRevalidate({cacheName:"static-js-assets",plugins:[new e.ExpirationPlugin({maxEntries:48,maxAgeSeconds:86400})]}),"GET"),e.registerRoute(/\.(?:css|less)$/i,new e.StaleWhileRevalidate({cacheName:"static-style-assets",plugins:[new e.ExpirationPlugin({maxEntries:32,maxAgeSeconds:86400})]}),"GET"),e.registerRoute(/\/_next\/data\/.+\/.+\.json$/i,new e.StaleWhileRevalidate({cacheName:"next-data",plugins:[new e.ExpirationPlugin({maxEntries:32,maxAgeSeconds:86400})]}),"GET"),e.registerRoute(/\.(?:json|xml|csv)$/i,new e.NetworkFirst({cacheName:"static-data-assets",plugins:[new e.ExpirationPlugin({maxEntries:32,maxAgeSeconds:86400})]}),"GET"),e.registerRoute(({sameOrigin:e,url:{pathname:a}})=>!(!e||a.startsWith("/api/auth/callback")||!a.startsWith("/api/")),new e.NetworkFirst({cacheName:"apis",networkTimeoutSeconds:10,plugins:[new e.ExpirationPlugin({maxEntries:16,maxAgeSeconds:86400})]}),"GET"),e.registerRoute(({request:e,url:{pathname:a},sameOrigin:i})=>"1"===e.headers.get("RSC")&&"1"===e.headers.get("Next-Router-Prefetch")&&i&&!a.startsWith("/api/"),new e.NetworkFirst({cacheName:"pages-rsc-prefetch",plugins:[new e.ExpirationPlugin({maxEntries:32,maxAgeSeconds:86400})]}),"GET"),e.registerRoute(({request:e,url:{pathname:a},sameOrigin:i})=>"1"===e.headers.get("RSC")&&i&&!a.startsWith("/api/"),new e.NetworkFirst({cacheName:"pages-rsc",plugins:[new e.ExpirationPlugin({maxEntries:32,maxAgeSeconds:86400})]}),"GET"),e.registerRoute(({url:{pathname:e},sameOrigin:a})=>a&&!e.startsWith("/api/"),new e.NetworkFirst({cacheName:"pages",plugins:[new e.ExpirationPlugin({maxEntries:32,maxAgeSeconds:86400})]}),"GET"),e.registerRoute(({sameOrigin:e})=>!e,new e.NetworkFirst({cacheName:"cross-origin",networkTimeoutSeconds:10,plugins:[new e.ExpirationPlugin({maxEntries:32,maxAgeSeconds:3600})]}),"GET")});

diff --git a/src/components/place-details.tsx b/src/components/place-details.tsx
@@ -13,10 +13,14 @@ import {
     faChevronRight,
     faClock,
     faDownload,
+    faFileLines,
+    faFileZipper,
     faLocationDot,
     faMap,
+    faMapLocationDot,
     faMountain,
     faReceipt,
+    faRoute,
     faRuler,
     faShareNodes,
     faStarHalfStroke,
@@ -208,7 +212,7 @@ export function PlaceDetails({ item, layoutId, onClose, mode = "modal" }: PlaceD
     const visualSection = (
         <motion.div
             layoutId={isModal ? layoutId : undefined}
-            className={`relative w-full ${isModal ? "h-[60dvh] md:h-screen md:sticky md:top-0 md:self-start cursor-zoom-out" : "h-[50vh] md:h-auto md:sticky md:top-0 md:self-start md:min-h-[calc(100dvh-88px)]"} md:w-1/2 md:order-2 overflow-hidden flex-shrink-0`}
+            className={`relative w-full ${isModal ? "h-[60dvh] md:h-screen md:sticky md:top-0 md:self-start cursor-zoom-out" : "h-[50vh] md:h-[calc(100dvh-88px)] md:sticky md:top-0 md:self-start md:min-h-[calc(100dvh-88px)]"} md:w-1/2 md:order-2 overflow-hidden flex-shrink-0`}
             transition={{ type: "spring", stiffness: 300, damping: 30 }}
             onClick={isModal && !route ? onClose : undefined}
         >
@@ -435,16 +439,17 @@ export function PlaceDetails({ item, layoutId, onClose, mode = "modal" }: PlaceD
                             </div>
                             <div className="grid grid-cols-2 gap-2 sm:grid-cols-4">
                                 {[
-                                    { label: "KML", url: route.kmlUrl },
-                                    { label: "KMZ", url: route.kmzUrl },
-                                    { label: "GPX", url: route.gpxUrl },
+                                    { label: "KML", url: route.kmlUrl, icon: faFileLines },
+                                    { label: "KMZ", url: route.kmzUrl, icon: faFileZipper },
+                                    { label: "GPX", url: route.gpxUrl, icon: faRoute },
                                 ].map((download) => (
                                     <a
                                         key={download.label}
                                         href={download.url}
                                         download
-                                        className="flex h-11 items-center justify-center rounded-lg border border-orange-200 bg-white text-sm font-bold text-orange-700 transition hover:border-orange-300 hover:bg-orange-100 dark:border-orange-900/60 dark:bg-gray-950/40 dark:text-orange-300 dark:hover:bg-orange-950/50"
+                                        className="flex h-11 items-center justify-center gap-2 rounded-lg border border-orange-200 bg-white px-3 text-sm font-bold text-orange-700 transition hover:border-orange-300 hover:bg-orange-100 dark:border-orange-900/60 dark:bg-gray-950/40 dark:text-orange-300 dark:hover:bg-orange-950/50"
                                     >
+                                        <FontAwesomeIcon icon={download.icon} className="h-4 w-4 flex-shrink-0" />
                                         {download.label}
                                     </a>
                                 ))}
@@ -452,10 +457,10 @@ export function PlaceDetails({ item, layoutId, onClose, mode = "modal" }: PlaceD
                                     href={route.fallbackUrl}
                                     target="_blank"
                                     rel="noopener noreferrer"
-                                    className="flex h-11 items-center justify-center gap-2 rounded-lg border border-gray-200 bg-white px-2 text-sm font-bold text-gray-800 transition hover:border-orange-300 hover:bg-orange-50 dark:border-gray-800 dark:bg-gray-950/40 dark:text-gray-100 dark:hover:bg-orange-950/30"
+                                    className="flex h-11 items-center justify-center gap-2 rounded-lg border border-gray-200 bg-white px-3 text-sm font-bold text-gray-800 transition hover:border-orange-300 hover:bg-orange-50 dark:border-gray-800 dark:bg-gray-950/40 dark:text-gray-100 dark:hover:bg-orange-950/30"
                                 >
-                                    <FontAwesomeIcon icon={faMap} className="h-4 w-4 text-orange-600 dark:text-orange-400" />
-                                    <span>{t("routeMap.openGoogle")}</span>
+                                    <FontAwesomeIcon icon={faMapLocationDot} className="h-4 w-4 flex-shrink-0 text-orange-600 dark:text-orange-400" />
+                                    <span className="whitespace-nowrap">{t("routeMap.openGoogle")}</span>
                                 </a>
                             </div>
                         </motion.div>

diff --git a/src/components/mapbox-route-map.tsx b/src/components/mapbox-route-map.tsx
@@ -37,6 +37,7 @@ export function MapboxRouteMap({ route }: MapboxRouteMapProps) {
 
         let cancelled = false;
         const controller = new AbortController();
+        let resizeTimer: number | null = null;
 
         async function loadMap() {
             try {
@@ -65,11 +66,14 @@ export function MapboxRouteMap({ route }: MapboxRouteMapProps) {
                     attributionControl: false,
                 });
                 mapRef.current = map;
+                requestAnimationFrame(() => map.resize());
+                resizeTimer = window.setTimeout(() => map.resize(), 250);
                 map.addControl(new mapboxgl.NavigationControl({ showCompass: false }), "bottom-right");
                 map.addControl(new mapboxgl.AttributionControl({ compact: true }), "bottom-left");
 
                 map.on("load", () => {
                     if (cancelled) return;
+                    map.resize();
                     map.addSource("route", {
                         type: "geojson",
                         data: geoJson,
@@ -118,6 +122,7 @@ export function MapboxRouteMap({ route }: MapboxRouteMapProps) {
         return () => {
             cancelled = true;
             controller.abort();
+            if (resizeTimer !== null) window.clearTimeout(resizeTimer);
             mapRef.current?.remove();
             mapRef.current = null;
         };
@@ -142,7 +147,7 @@ export function MapboxRouteMap({ route }: MapboxRouteMapProps) {
             />
             <div
                 ref={containerRef}
-                className={`absolute inset-0 transition-opacity duration-300 ${status === "ready" ? "opacity-100" : "opacity-0"}`}
+                className={`h-full w-full transition-opacity duration-300 ${status === "ready" ? "opacity-100" : "opacity-0"}`}
                 aria-label={route.title}
             />
             {status !== "ready" && (
